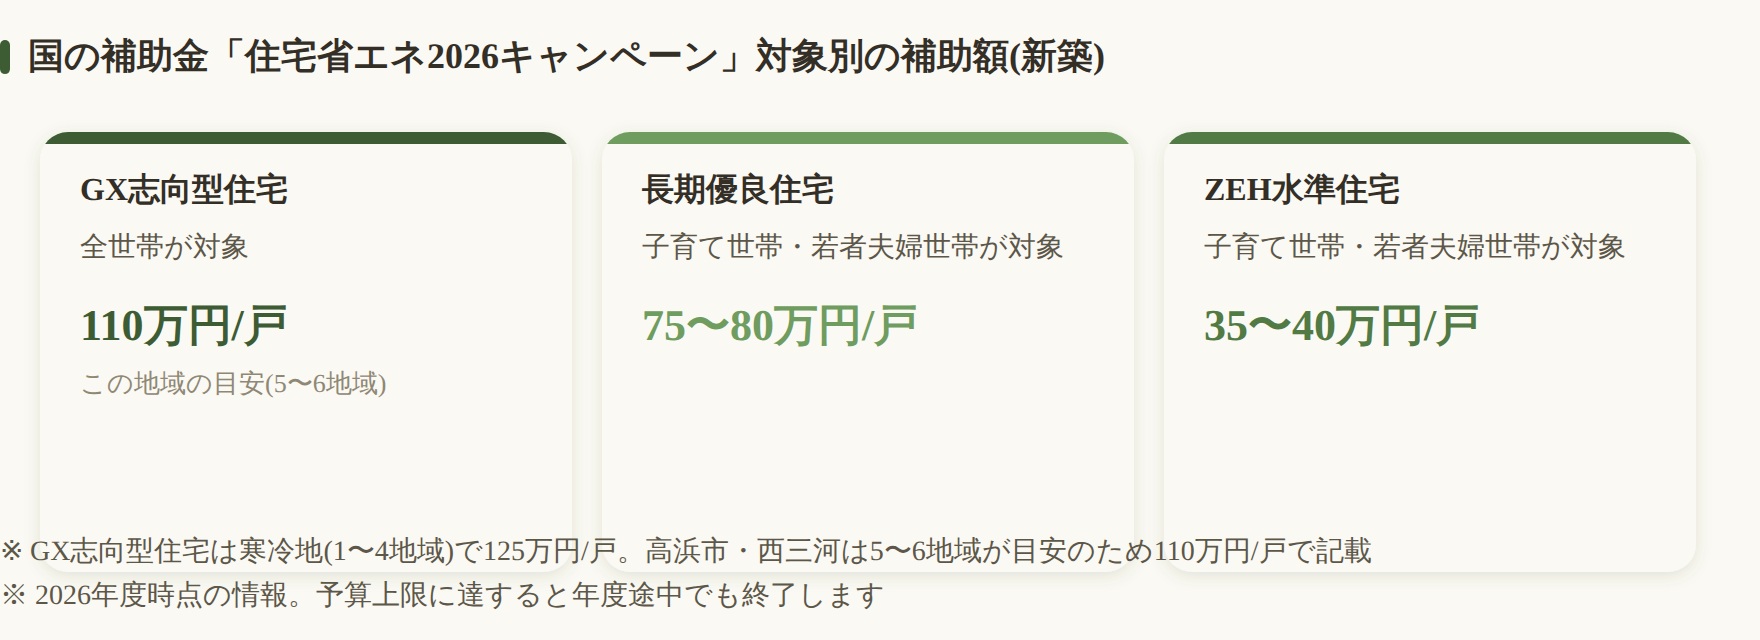
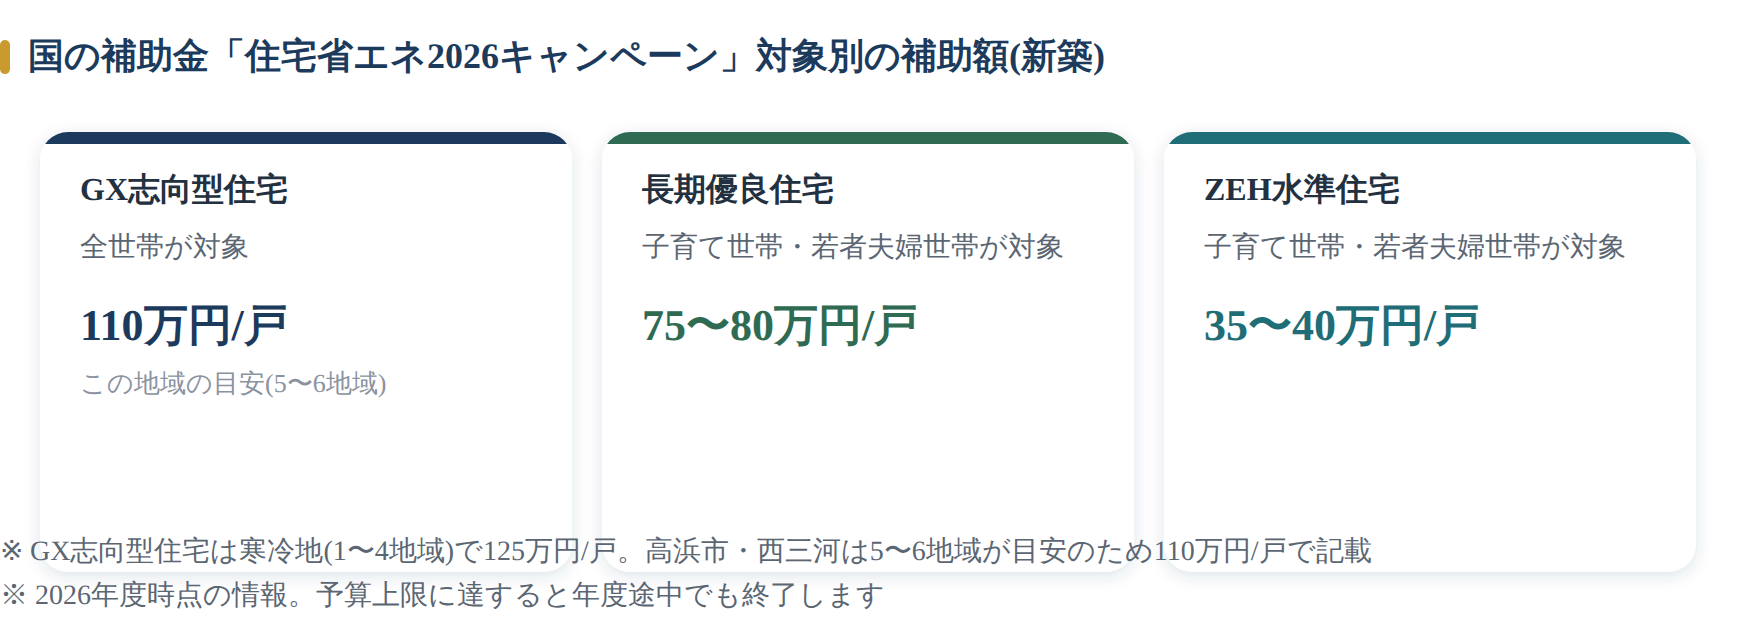
図解の配色をネイビー×ゴールド×複数色に刷新、建物線画アイコンを追加
まえちゃんから提示いただいた参考画像(クオリティ基準)に合わせ、svg_kitのパレットを
アースカラー基調からネイビー基調+ゴールドアクセント+複数色(深緑/ティール)に変更。
NAVY/BLUE/BLUE_L/BLUE_M等の変数名は互換維持のため据え置き、値のみ変更。
heading()の既定アクセントもGOLDに変更。

参考画像にあった市役所アイコンのような簡素な線画アイコンの使用も確認が取れたため、
building_icon()/pin_icon()/icon_badge()をsvg_kitに追加(イラストは引き続き不採用、
情報を示す記号としての線画アイコンのみ許可)。

「高浜市周辺で使える住宅補助金」記事の図2にicon_badgeを適用し、3図とも新配色で
再書き出し。wordpress.mdの画像生成プロンプト雛形もネイビー×ゴールド基調に更新。

diff --git a/.claude/skills/homepage-article/scripts/svg_kit.py b/.claude/skills/homepage-article/scripts/svg_kit.py
@@ -2,37 +2,45 @@
 """記事に埋め込む図解SVGを書くための共通部品。
 
 記事ごとの図解ファイル(articles/<slug>.figures.py)から import して使う。
-色はインザホームのブランドイメージ(アースカラー基調+淡いグリーン、2026年9月改訂)に
-合わせてある。WCAGコントラスト比を確認済み。勝手に増やさないこと。
+色はインザホームのブランドイメージ(ネイビー基調+ゴールドアクセント+複数色、
+2026年9月改訂)に合わせてある。WCAGコントラスト比を確認済み。勝手に増やさないこと。
 
-変数名(NAVY/BLUE/BLUE_L/BLUE_M)は旧パレット(青系)からの互換のため残しているが、
-値はアース・グリーン系に変更済み。過去の記事のfigures.pyはコード変更なしで
-新パレットに切り替わる(再度 export_png.py を実行すれば新しい配色でPNGが出力される)。
+変数名(NAVY/BLUE/BLUE_L/BLUE_M)は旧パレット(青系→アースグリーン系)からの互換のため
+残しているが、値はネイビー・ゴールド系に変更済み。過去の記事のfigures.pyはコード変更
+なしで新パレットに切り替わる(再度 export_png.py を実行すれば新しい配色でPNGが出力される)。
 """
 
 FONT = '"Hiragino Kaku Gothic ProN","Hiragino Sans","Yu Gothic","Meiryo",sans-serif'
 
-# ── パレット(アースカラー基調+淡いグリーン。2026年9月、まえちゃんの指定) ──
-# 「NAVY/BLUE」等の変数名は互換のため維持。中身はグリーン系のブランドカラー
-NAVY   = '#3d5c34'   # 旧NAVY相当 → ブランドの濃いグリーン(見出し・強調・バッジの地色)
-BLUE   = '#6f9c5f'   # 旧BLUE相当 → ブランドの中間グリーン(中立情報・アクセントバー)
-BLUE_L = '#cfe0bd'   # 旧BLUE_L相当 → 淡いグリーン(塗り面・薄いフィル用。「淡い感じ」の主役)
-BLUE_M = '#517a44'   # 旧BLUE_M相当 → やや濃いグリーン(BLUEより強調したい時)
-GREEN_D, GREEN, GREEN_L, GREEN_M = NAVY, BLUE, BLUE_L, BLUE_M  # 分かりやすい別名(新規コードではこちらを推奨)
-TAN    = '#b98a55'   # アースカラーの木目・土色アクセント(屋根・木材などのイラストに)
-TAN_D  = '#7c5c34'   # TANの濃色(文字用)
-GOOD   = '#4d7a3f'   # status good(ブランドグリーンと同系統でまとめる)
-GOOD_D = '#2e4a26'   # good の濃い文字色
-CRIT   = '#b3402c'   # status critical(赤ではなくテラコッタ寄りの暖色でアースカラーに馴染ませる)
-CRIT_D = '#7a2a1c'
-WARN   = '#b8811f'   # status warning(マスタード系)
-WARN_D = '#6b4a10'
-INK    = '#332e26'   # 本文の黒に相当。純黒ではなく温かみのある焦げ茶黒
-INK2   = '#5c5748'
-MUTE   = '#8f8874'
-LINE   = '#ddd7c4'   # 境界線。暖色寄りのグレー
-SURF   = '#fbf9f4'   # 背景。純白ではなくアイボリー寄り
-TINT   = '#eef1e4'   # 薄い塗り面。淡いグリーン寄りのクリーム
+# ── パレット(ネイビー基調+ゴールドアクセント+複数色。2026年9月、まえちゃんの指定) ──
+# 「NAVY/BLUE/BLUE_L/BLUE_M」等の変数名は互換のため維持。中身はネイビー・ゴールド系
+NAVY   = '#1b3a5c'   # ブランドの濃いネイビー(見出し・強調・バッジの地色。主色)
+BLUE   = '#2f6b52'   # 3色比較の2色目(深緑寄り。旧「BLUE」を差し替え)
+BLUE_L = '#e2e8ee'   # 淡いネイビー系のフィル用(「淡い感じ」の背景・薄い塗り面)
+BLUE_M = '#1f6d77'   # 3色比較の3色目(ティール。BLUEより寒色寄りで差別化)
+GREEN_D, GREEN, GREEN_L, GREEN_M = NAVY, BLUE, BLUE_L, BLUE_M  # 分かりやすい別名(互換維持用)
+NAVY_L = '#e2e8ee'   # NAVYの淡色(アイコン地・薄いフィル)
+FOREST   = BLUE       # 新規コードではこちらの名前を推奨(3色比較の2色目=深緑)
+FOREST_L = '#e1ebe5'  # FORESTの淡色
+TEAL     = BLUE_M     # 新規コードではこちらの名前を推奨(3色比較の3色目)
+TEAL_L   = '#e0edee'  # TEALの淡色
+MULTI  = [NAVY, FOREST, TEAL]  # 3項目を色分けするときはこの順で使う
+GOLD   = '#c99a2e'   # アクセントカラー(タイトル下のバー、強調に使う暖色)
+GOLD_D = '#8a6a1a'
+TAN    = GOLD         # 互換用(木目・土色アクセントとして使っていた箇所はGOLDに統一)
+TAN_D  = GOLD_D
+GOOD   = '#3f9142'   # status good(明快なグリーン)
+GOOD_D = '#256b2c'
+CRIT   = '#c0392b'   # status critical(はっきりした赤)
+CRIT_D = '#8a2f22'
+WARN   = '#b8862a'   # status warning(アンバー系。GOLDより少し濃い)
+WARN_D = '#7a5a17'
+INK    = '#22303f'   # 本文の黒に相当。ネイビー寄りの濃いグレー
+INK2   = '#5b6673'
+MUTE   = '#8b93a0'
+LINE   = '#dde3ea'   # 境界線。寒色寄りの淡いグレー
+SURF   = '#ffffff'   # 背景。純白
+TINT   = '#eef2f6'   # 薄い塗り面。淡いネイビー寄りのグレー
 
 # 図の標準幅。880で描き、モバイルでは横スクロールさせる(min-width 660px)
 STD_W = 880
@@ -67,9 +75,10 @@ def txt(x, y, s, size=16, fill=INK, weight='400', anchor='start', spacing=None):
             f'font-weight="{weight}" text-anchor="{anchor}"{sp}>{s}</text>')
 
 
-def heading(x, y, s, size=18, fill=INK, accent=NAVY):
+def heading(x, y, s, size=18, fill=NAVY, accent=GOLD):
     """図解タイトル用の見出し。左に小さいアクセントの角丸バーを添えて、
     ただの黒文字よりデザイン性を出す。本文中のtxt()と役割を分けるために用意。
+    文字色はNAVY、アクセントバーはGOLDが標準(2026年9月改訂)。
     """
     return (f'<rect x="{x}" y="{y - size * 0.78}" width="5" height="{size * 0.95}" '
             f'rx="2.5" fill="{accent}"/>'
@@ -155,4 +164,54 @@ def cross_badge(cx, cy, r=11, color=CRIT):
 
 
 # house_icon()は2026年9月に試作したが、まえちゃんのイメージと合わず不採用。
-# イラスト要素は使わない方針。図解はテキスト・図形・数値の可視化に徹すること。
+# ただし2026年9月の参考画像で「建物・地図ピンなどの簡素な線画アイコン」は
+# 使ってよいと確認が取れたため、以下の line-icon 系は使用可(家の絵を描くのとは別物、
+# 情報を示す記号としてのアイコンに徹すること。装飾的なイラストにはしない)。
+
+
+def building_icon(cx, cy, size=22, color=NAVY):
+    """簡易な建物(市役所・役場)の線画アイコン。(cx,cy)を中心に描く。"""
+    w, h = size, size * 0.88
+    x0, y0 = cx - w / 2, cy - h / 2
+    roof_h = h * 0.3
+    body_y = y0 + roof_h
+    body_h = h - roof_h
+    sw = max(1.6, size * 0.09)
+    s = [
+        f'<path d="M{x0 - 2} {body_y} L{cx} {y0} L{x0 + w + 2} {body_y}" '
+        f'fill="none" stroke="{color}" stroke-width="{sw}" '
+        f'stroke-linecap="round" stroke-linejoin="round"/>',
+        f'<rect x="{x0}" y="{body_y}" width="{w}" height="{body_h}" '
+        f'fill="none" stroke="{color}" stroke-width="{sw}" rx="{size*0.06}"/>',
+    ]
+    for i in range(3):
+        lx = x0 + w * 0.22 + i * (w * 0.28)
+        s.append(f'<line x1="{lx}" y1="{body_y + body_h*0.2}" x2="{lx}" y2="{body_y + body_h*0.82}" '
+                  f'stroke="{color}" stroke-width="{sw*0.75}" stroke-linecap="round"/>')
+    return ''.join(s)
+
+
+def pin_icon(cx, cy, size=22, color=NAVY):
+    """簡易な地図ピンの線画アイコン。(cx,cy)を中心(ピン全体の中心)に描く。"""
+    r = size * 0.32
+    top = cy - size * 0.42
+    sw = max(1.6, size * 0.09)
+    return (
+        f'<path d="M{cx} {top} a{r} {r} 0 0 1 {r} {r} c0 {r*1.4} -{r} {size*0.58} -{r} {size*0.58} '
+        f'c0 0 -{r} -{size*0.58-r*1.4} -{r} -{size*0.58} a{r} {r} 0 0 1 {r} -{r}z" '
+        f'fill="none" stroke="{color}" stroke-width="{sw}" stroke-linejoin="round"/>'
+        f'<circle cx="{cx}" cy="{top + r}" r="{r*0.42}" fill="{color}"/>'
+    )
+
+
+def icon_badge(x, y, size, color, tint=None, icon='building'):
+    """角丸正方形の淡色地に、線画アイコンを乗せたバッジ。表の左端などに使う。
+
+    tintを省略した場合はNAVY_L相当(呼び出し側で行の色に合わせたtintを渡すのが望ましい)。
+    """
+    tint = tint or NAVY_L
+    fn = pin_icon if icon == 'pin' else building_icon
+    return (
+        f'<rect x="{x}" y="{y}" width="{size}" height="{size}" rx="{size*0.22}" fill="{tint}"/>'
+        f'{fn(x + size / 2, y + size / 2, size * 0.56, color)}'
+    )

diff --git a/articles/2026-09-22-hojokin-hikaku-takahama.figures.py b/articles/2026-09-22-hojokin-hikaku-takahama.figures.py
@@ -2,7 +2,7 @@
 """「高浜市・西三河で使える住宅補助金」の図解。
 
 共通部品は .claude/skills/homepage-article/scripts/svg_kit.py。
-配色はアースカラー+淡いグリーン。イラストは使わない方針。
+配色はネイビー基調+ゴールドアクセント+複数色(2026年9月改訂)。建物の線画アイコンのみ使用可。
 文字は見出し18-20px/本文ラベル15px以上/注記14px以上を厳守。
 
 数字は2026年9月時点でWebSearchにより裏取りしたもの(国の「住宅省エネ2026キャンペーン」
@@ -11,7 +11,8 @@
 """
 from svg_kit import (NAVY, BLUE, BLUE_L, BLUE_M, GOOD, GOOD_D, CRIT, CRIT_D,
                      WARN, WARN_D, INK, INK2, MUTE, LINE, SURF, TINT,
-                     wrap, txt, box, heading, card, badge, check_badge, cross_badge)
+                     FOREST, FOREST_L, NAVY_L,
+                     wrap, txt, box, heading, card, badge, check_badge, cross_badge, icon_badge)
 
 
 # ── 図1: 国の補助金(住宅省エネ2026キャンペーン)の対象別補助額 ──────────────────────
@@ -49,19 +50,19 @@ def fig_shi_hikaku():
     s.append(heading(0, 34, '市独自の補助金は、市によってまったく違う(2026年度時点)', 18))
 
     rows = [
-        ('高浜市', '新築向けの市独自補助金は、今のところ確認されていません', '(リフォーム向けの制度は別にあります)', MUTE, False),
-        ('岡崎市', '岡崎市産材住宅建設事業費補助金', '主要構造材や内装材に地元の木材を使うと最大30万円', BLUE),
-        ('安城市', 'スマートハウス普及促進補助金', '太陽光+蓄電池+HEMSを併せて導入すると最大21万円', NAVY),
+        ('高浜市', '新築向けの市独自補助金は、今のところ確認されていません', '(リフォーム向けの制度は別にあります)', MUTE, TINT),
+        ('岡崎市', '岡崎市産材住宅建設事業費補助金', '主要構造材や内装材に地元の木材を使うと最大30万円', FOREST, FOREST_L),
+        ('安城市', 'スマートハウス普及促進補助金', '太陽光+蓄電池+HEMSを併せて導入すると最大21万円', NAVY, NAVY_L),
     ]
     y0 = 70
     row_h = 78
-    for i, row in enumerate(rows):
-        name, title, note, color = row[0], row[1], row[2], row[3]
+    for i, (name, title, note, color, tint) in enumerate(rows):
         y = y0 + i * row_h
         s.append(card(20, y, 840, row_h - 12, SURF, accent=color, shadow=False))
-        s.append(txt(45, y + 32, name, 16, INK, '700'))
-        s.append(txt(150, y + 24, title, 15, INK if color != MUTE else INK2, '700'))
-        s.append(txt(150, y + 48, note, 14, INK2, '400'))
+        s.append(icon_badge(45, y + (row_h - 12) / 2 - 17, 34, color, tint))
+        s.append(txt(95, y + 32, name, 16, INK, '700'))
+        s.append(txt(190, y + 24, title, 15, INK if color != MUTE else INK2, '700'))
+        s.append(txt(190, y + 48, note, 14, INK2, '400'))
 
     return wrap(''.join(s), W, H,
                 '高浜市・岡崎市・安城市の独自補助金比較',
